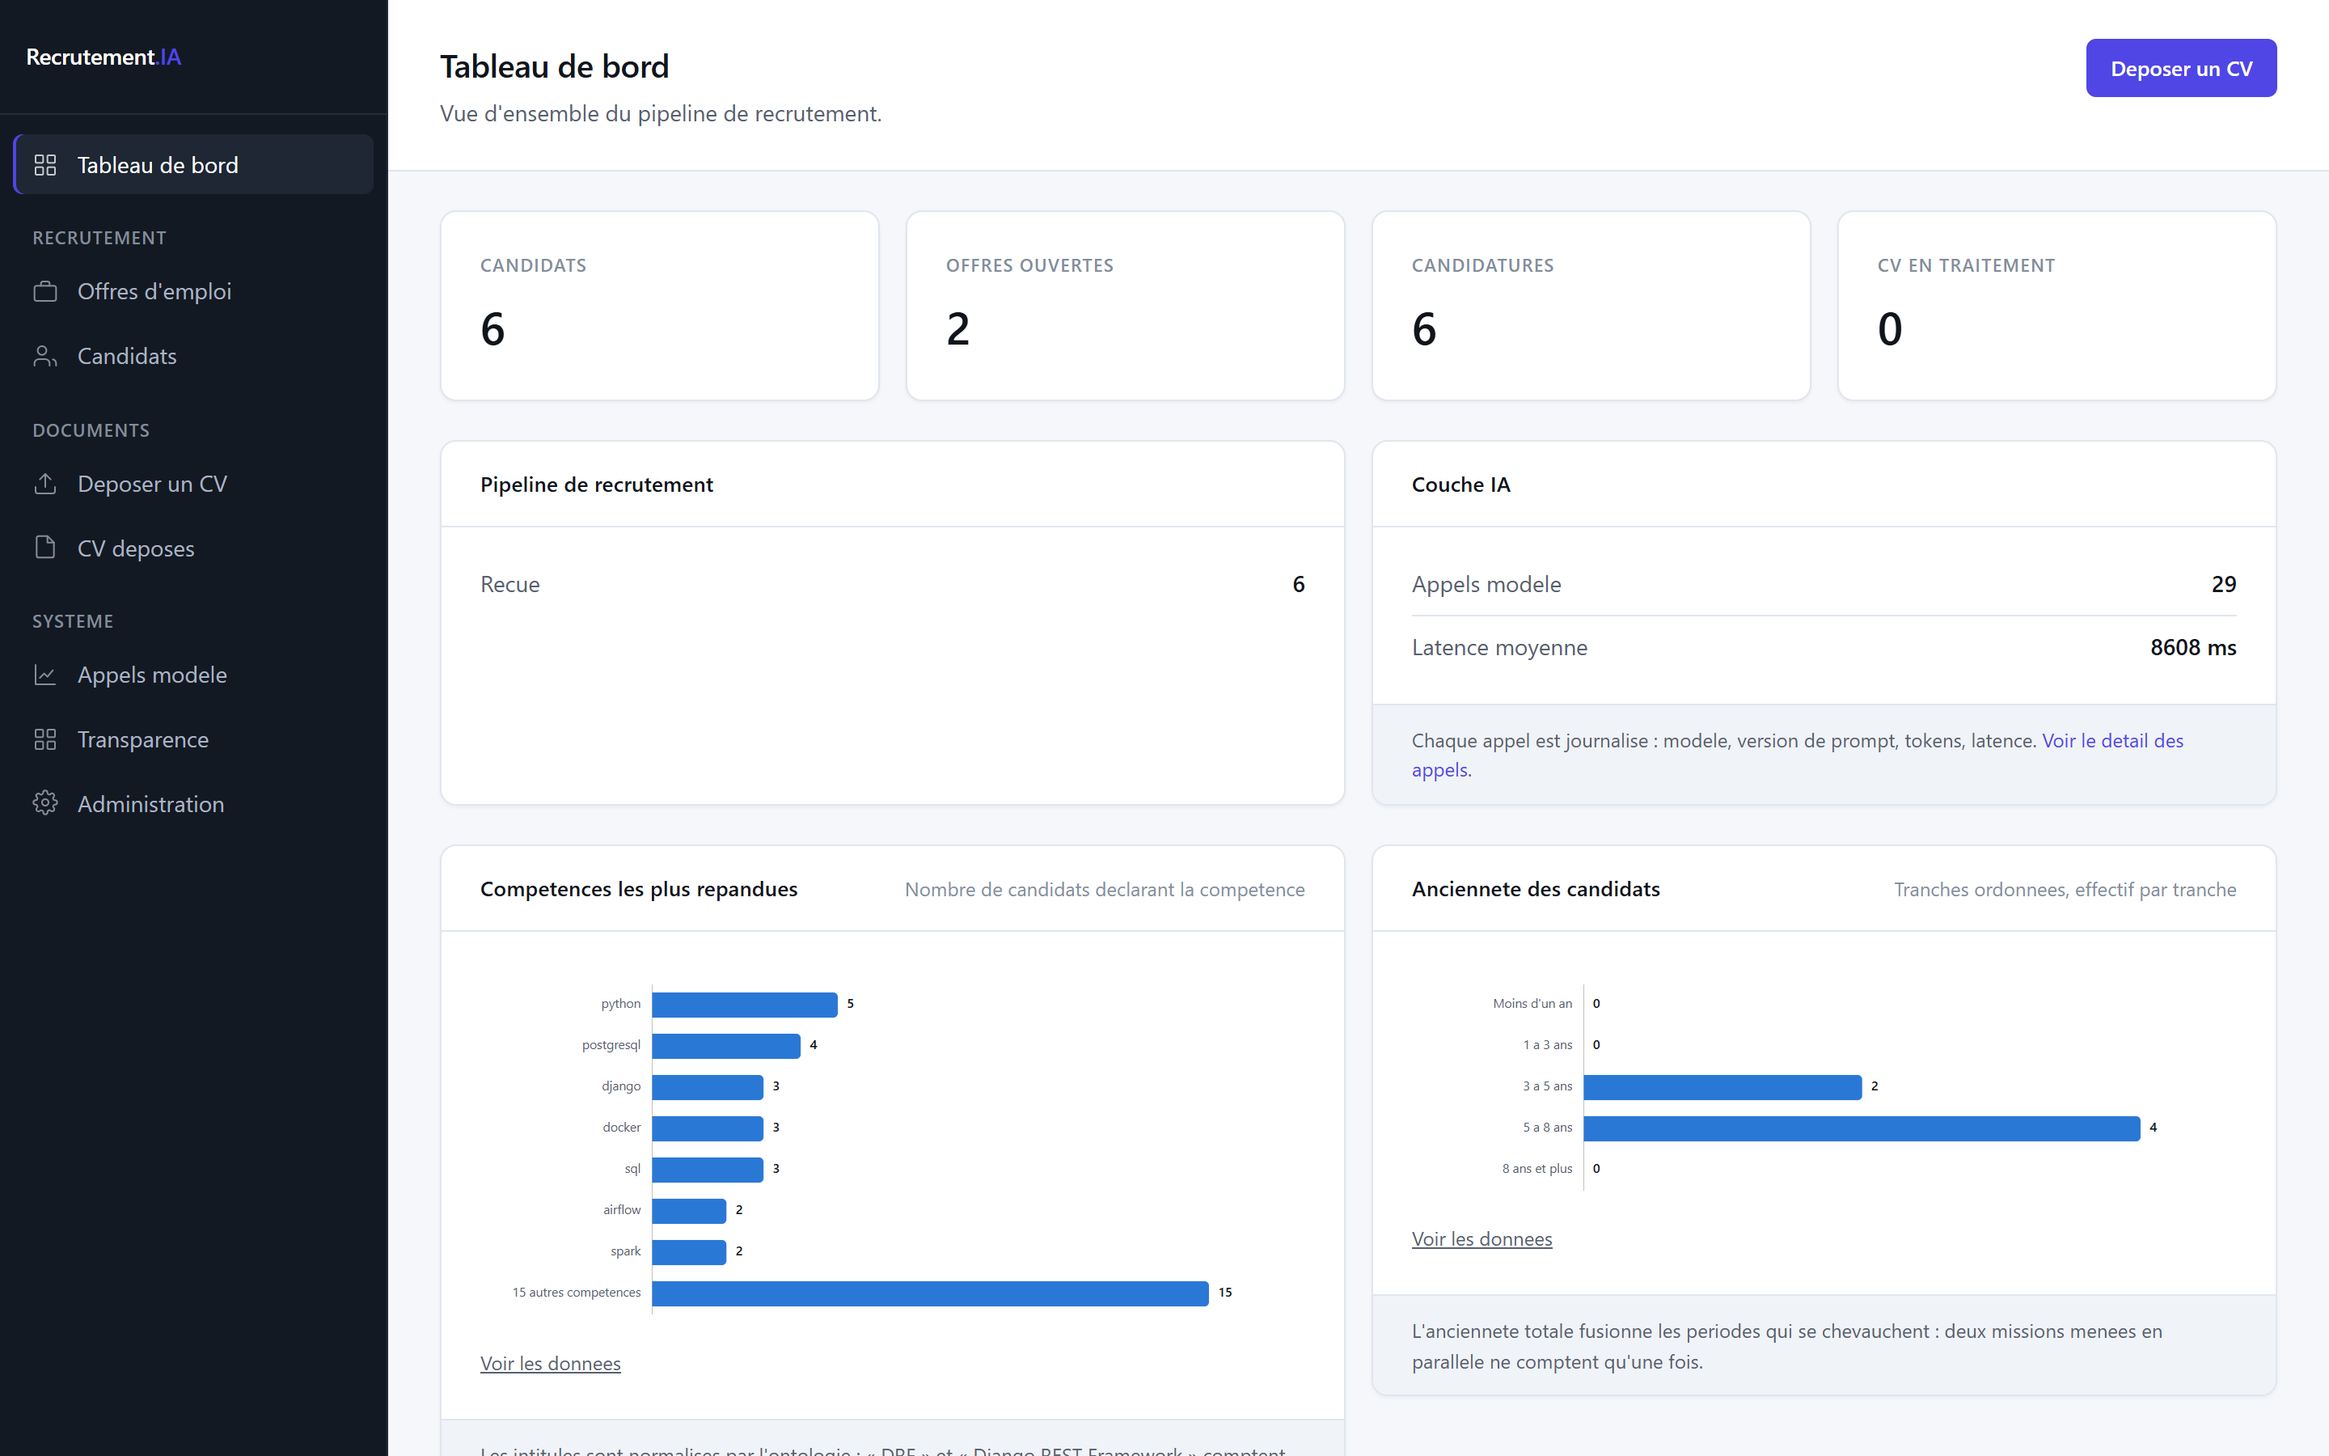
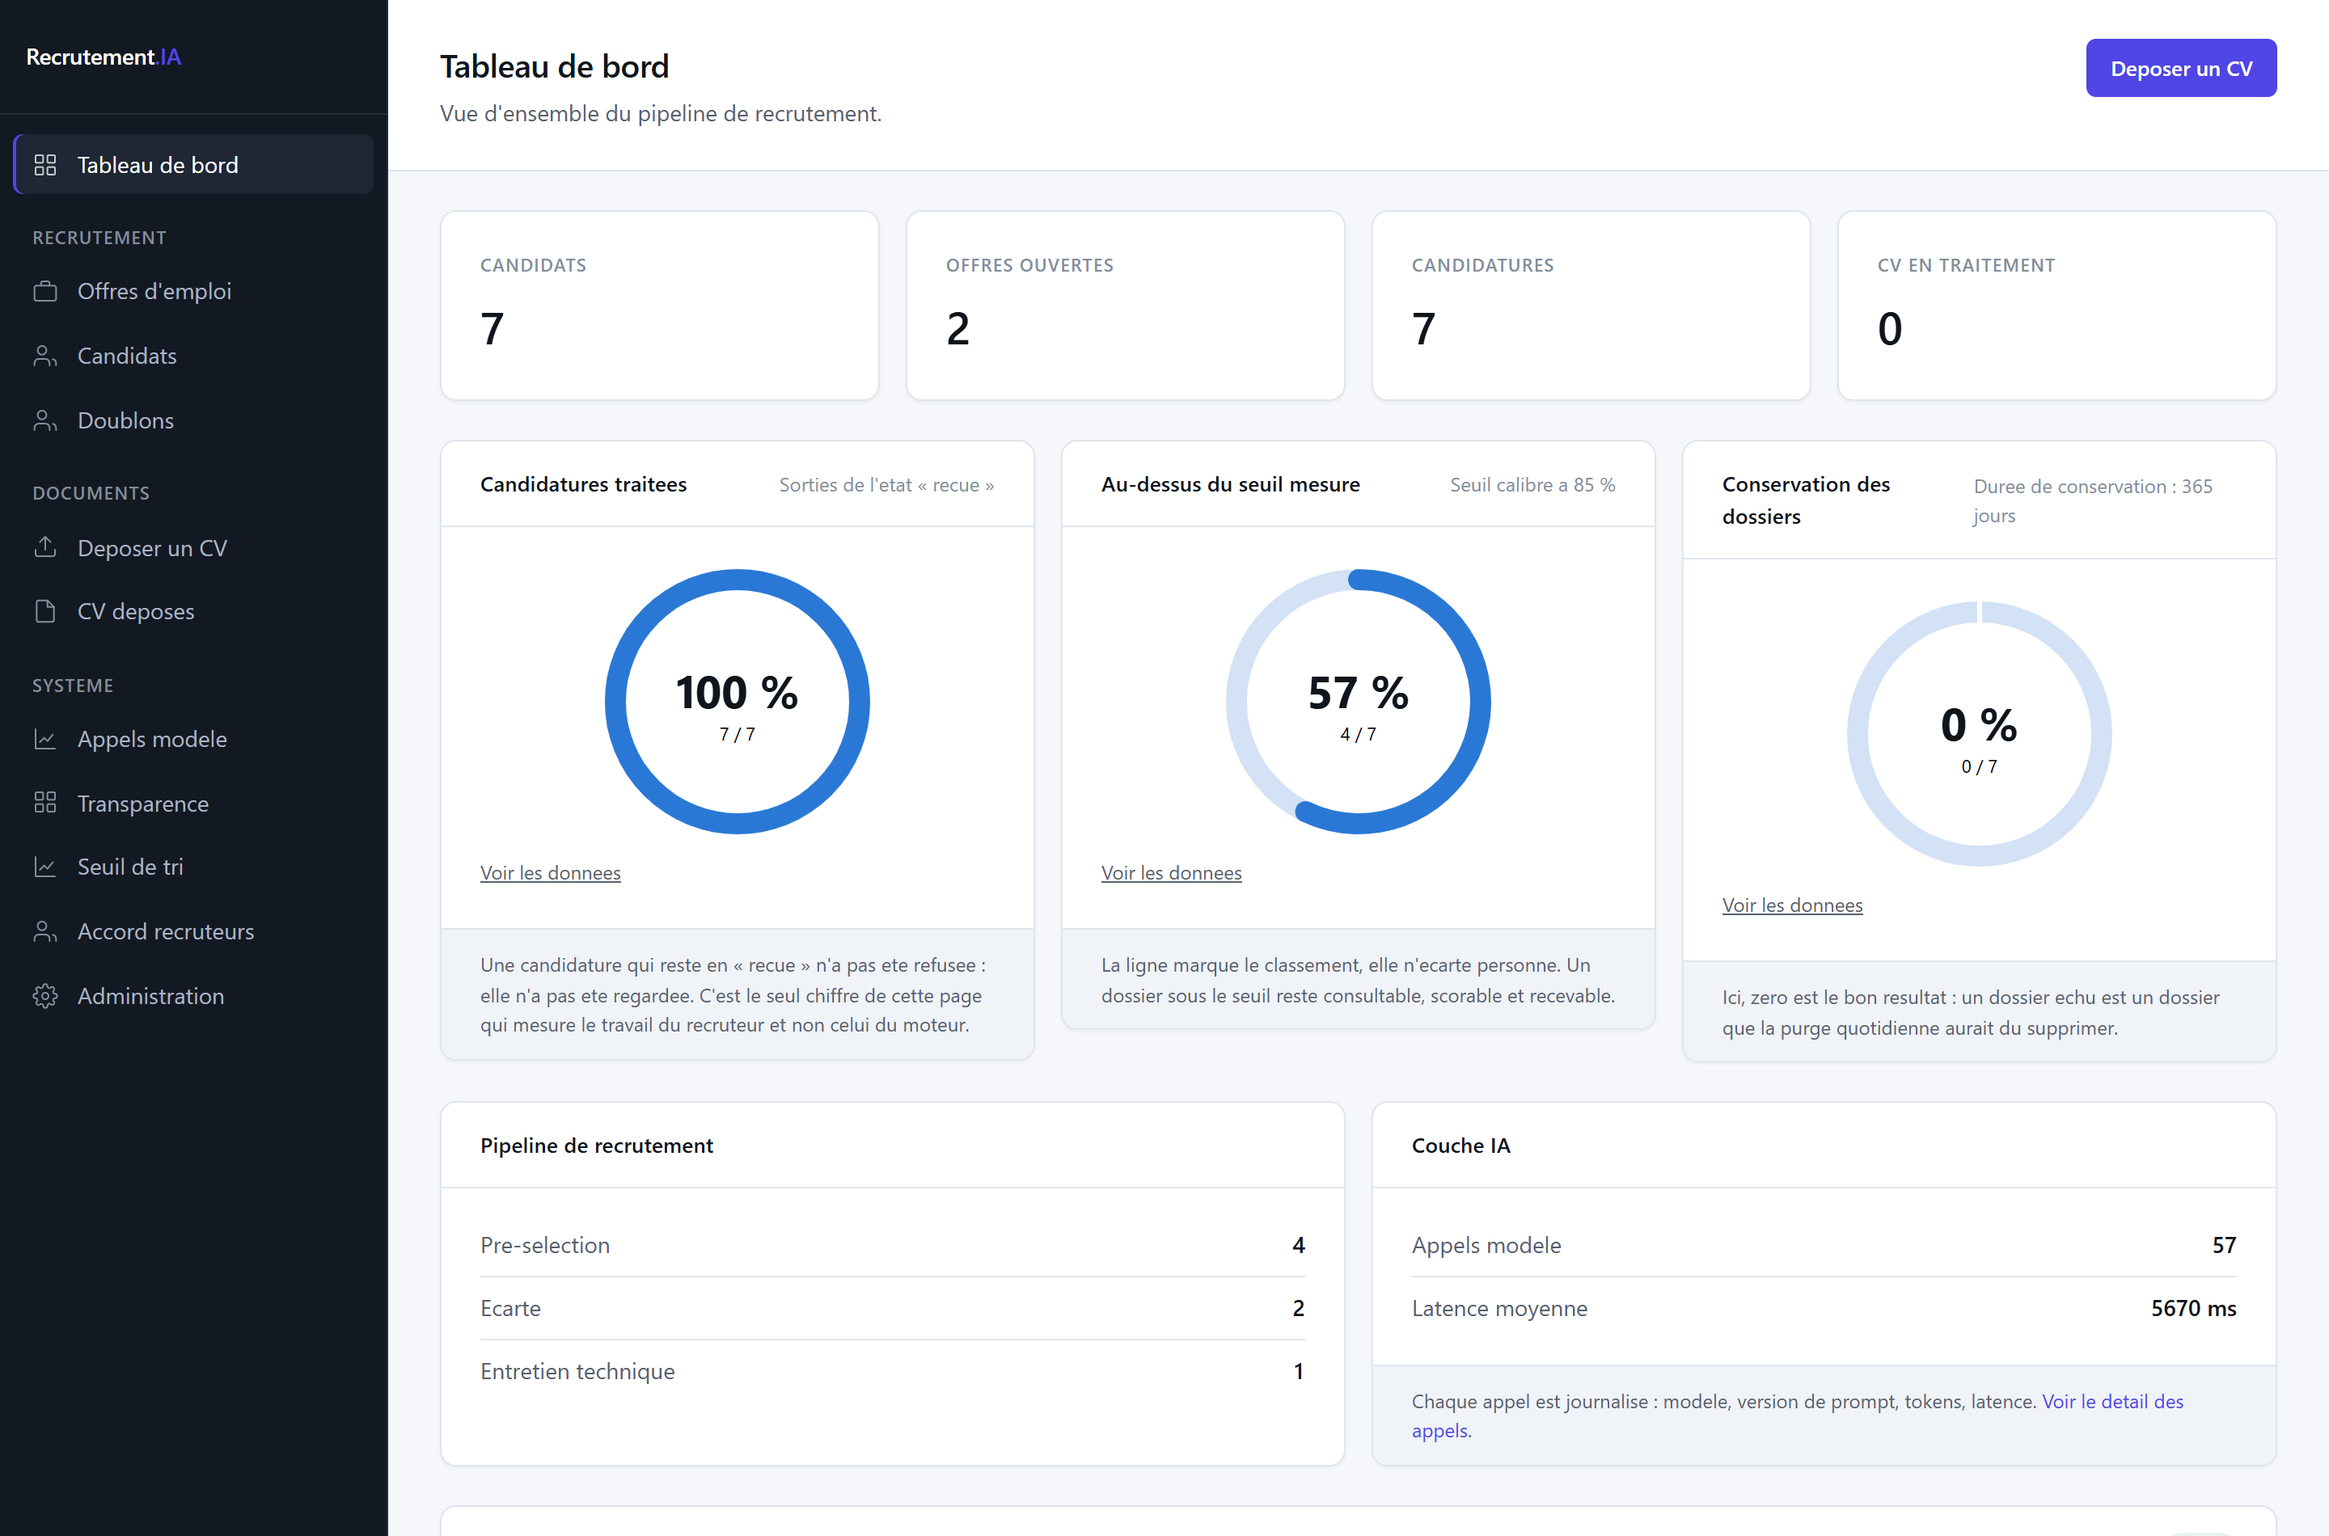
Recrutement.IA : ajouter les captures des dernieres fonctionnalites
Quatre ecrans nouveaux, tous pris sur l'application reelle :

- le simulateur de ponderation, sur le cas qui justifie son existence :
  baisser le poids des competences fait franchir le seuil legal des quatre
  cinquiemes sans toucher a celui de la localisation ;
- la redirection inter-offres, sur un profil data ayant postule au backend :
  75 % ici, 92 % sur l'offre data, signalee et non transferee ;
- l'accord entre recruteurs, ou l'accord brut de 0,67 correspond a un kappa
  de 0,25 -- le pourcentage aurait fait croire a un consensus ;
- un CV arabe genere pour mesurer l'extraction : 2 champs sur 8 sans
  normalisation, 7 avec.

La capture du tableau de bord est refaite : elle montrait encore la mise en
page d'avant les jauges, et etait donc devenue fausse.

Metriques remesurees le 31/07/2026 : 667 tests, 84 % de couverture.

diff --git a/recruitmentProject.js b/recruitmentProject.js
@@ -1,7 +1,7 @@
 // ─── DONNÉES DU PROJET : Recrutement.IA (bilingue FR / EN) ──────────────────
 // Passé à <ProjectCard data={...} /> dans App.jsx. Même schéma que l'objet
 // `project` par défaut de ProjectCard.jsx — on ne touche pas au composant.
-// Chiffres MESURÉS le 2026-07-30 : suite de tests exécutée (458 tests, 82 % de
+// Chiffres MESURÉS le 2026-07-31 : suite de tests exécutée (667 tests, 84 % de
 // couverture), harnais d'évaluation du classement (nDCG@5 0,997 sur 7 cas
 // annotés) et audit de biais par contrefactuels (ratio d'impact 0,809 → 1,000).
 // Captures dans public/screenshots/ (préfixe recruitment-).
@@ -16,7 +16,7 @@ export const recruitmentProject = {
       "Trier des CV avec un modèle de langage est facile ; obtenir un résultat qu'on puisse défendre l'est beaucoup moins — la note change d'une exécution à l'autre, et rien ne dit d'où elle vient. Ici le score est calculé par un moteur déterministe à partir de poids explicites, le modèle se contente de le commenter, et aucune donnée extraite d'un CV n'est retenue sans une citation retrouvée mot pour mot dans le document. La qualité du classement et l'effet des attributs identitaires sont mesurés sur des jeux annotés puis verrouillés en intégration continue : le tri de candidatures étant un système d'IA à haut risque au sens de l'AI Act, la supervision humaine n'est pas une intention mais un comportement — écarter un candidat demande un motif écrit, un compte non habilité se voit refuser l'action et le refus est journalisé, et chaque dossier porte une échéance de conservation qu'une purge quotidienne fait respecter.",
     stack: ["Python 3.11", "Django 5", "DRF", "Celery", "PyMuPDF", "python-docx", "pytest", "llama.cpp", "Qwen3.6-35B · Qwen3-VL", "SVG sans dépendance", "GitHub Actions"],
     metrics: [
-      { value: "458", label: "tests automatisés", detail: "82 % de couverture, exécutés en intégration continue" },
+      { value: "667", label: "tests automatisés", detail: "84 % de couverture, exécutés en intégration continue" },
       { value: "0,997", label: "nDCG@5 du classement", detail: "sur 7 cas annotés à la main, non-régression verrouillée" },
       { value: "1,000", label: "ratio d'impact après atténuation", detail: "0,809 avant — règle dite des quatre cinquièmes" },
     ],
@@ -91,6 +91,9 @@ Classement          Qwen3.6-35B
         { label: "Une personne comptée une fois", detail: "Un candidat qui repostule six mois plus tard créait deux dossiers, deux scores, et pouvait être écarté sur l'un sans qu'on sache que l'autre existait." },
         { label: "Chercher ce qu'aucun filtre n'exprime", detail: "« Qui a travaillé sur des systèmes de paiement ? » n'est ni une compétence, ni une langue, ni un seuil. BM25 sur le profil extrait répond, sans appel modèle : rappel@5 de 0,959 sur un jeu annoté, soit exactement le maximum atteignable." },
         { label: "Un rapport transmissible", detail: "Qualité du classement, biais mesurés, seuil et sa marge dans un PDF daté et versionné, généré sans dépendance supplémentaire — PyMuPDF était déjà là pour lire les CV. L'export est journalisé : un document qui sort du système est une donnée qui circule." },
+        { label: "Personne n'est écarté sans qu'on ait regardé ailleurs", detail: "Un candidat sous le seuil sur une offre mais au-dessus sur une autre est signalé au lieu de disparaître. C'est un signalement, pas un transfert : postuler ailleurs appartient au candidat. La page distingue « aucune autre offre ne conviendrait » de « on n'a pas regardé »." },
+        { label: "Un CV arabe devient lisible", detail: "Un PDF arabe stocke des formes de présentation, pas les lettres de base : « سارة » écrit dans le CV ressort en « ﺱﺍﺭﺓ ». Sans normalisation, 2 champs sur 8 sont retrouvés ; avec, 7 sur 8." },
+        { label: "Le coût d'une pondération est visible avant de l'appliquer", detail: "Baisser le poids des compétences de 0,45 à 0,20 fait tomber le ratio d'impact de 0,809 à 0,714 — sous le seuil légal — sans toucher au poids de la localisation. Aucun recruteur ne devinerait cela en déplaçant un curseur." },
       ],
       note:
         "Chiffres relevés sur les jeux de test du dépôt, reproductibles par les commandes du README. Le gain de temps de présélection en conditions réelles n'a pas été mesuré : il n'est donc pas revendiqué.",
@@ -98,7 +101,11 @@ Classement          Qwen3.6-35B
 
     screenshots: [
       { file: "recruitment-ranking.png", caption: "Classement d'une offre, avec le seuil de coupe mesuré — la ligne marque, elle n'écarte pas" },
+      { file: "recruitment-weights.png", caption: "Baisser le poids des compétences fait franchir le seuil légal — sans toucher à la localisation" },
       { file: "recruitment-threshold.png", caption: "Où couper : chaque seuil, ce qu'il retient et surtout ce qu'il écarte à tort" },
+      { file: "recruitment-redirect.png", caption: "Sous le seuil ici, au-dessus ailleurs : l'offre est signalée, jamais la candidature transférée" },
+      { file: "recruitment-agreement.png", caption: "Accord brut 0,67, kappa 0,25 : le pourcentage aurait fait croire à un consensus" },
+      { file: "recruitment-arabic.png", caption: "CV arabe généré pour mesurer l'extraction : 2 champs sur 8 sans normalisation, 7 avec" },
       { file: "recruitment-counterfactual.png", caption: "Ce qui manque pour atteindre le seuil, mesuré en rejouant le moteur" },
       { file: "recruitment-duplicates.png", caption: "Deux dossiers pour la même personne — proposés au rapprochement, jamais fusionnés d'office" },
       { file: "recruitment-search.png", caption: "Recherche BM25 dans le texte des profils : aucun appel modèle, résultat reproductible" },
@@ -114,7 +121,7 @@ Classement          Qwen3.6-35B
       { file: "recruitment-decision.png", caption: "Écarter un candidat exige un motif écrit ; le journal conserve toutes les décisions" },
       { file: "recruitment-roles.png", caption: "Un compte en lecture seule est refusé sur toute action, et le refus est journalisé" },
       { file: "recruitment-retention.png", caption: "Conservation RGPD : échéance par dossier, purge quotidienne en cascade" },
-      { file: "recruitment-dashboard.png", caption: "Tableau de bord : compétences, ancienneté, distribution des scores" },
+      { file: "recruitment-dashboard.png", caption: "Tableau de bord : trois jauges en tête, puis compétences, ancienneté et distribution des scores" },
     ],
     repoUrl: "https://github.com/baDrsh531/ai-recruitment-assistant",
     demo: { status: "pending", label: "Démo : code prêt, déploiement en attente" },
@@ -129,7 +136,7 @@ Classement          Qwen3.6-35B
       "Ranking CVs with a language model is easy; getting a result you can defend is much harder — the score shifts between runs, and nothing says where it came from. Here the score is computed by a deterministic engine from explicit weights, the model only comments on it, and no data extracted from a CV is kept without a quote found verbatim in the document. Ranking quality and the effect of identity attributes are measured on annotated datasets and locked in continuous integration: since CV screening is a high-risk AI system under the EU AI Act, human oversight is a behaviour rather than an intention — rejecting a candidate requires a written reason, an account without the right is refused the action and the refusal is logged, and every file carries a retention deadline that a daily purge enforces.",
     stack: ["Python 3.11", "Django 5", "DRF", "Celery", "PyMuPDF", "python-docx", "pytest", "llama.cpp", "Qwen3.6-35B · Qwen3-VL", "Dependency-free SVG", "GitHub Actions"],
     metrics: [
-      { value: "458", label: "automated tests", detail: "82% coverage, run in continuous integration" },
+      { value: "667", label: "automated tests", detail: "84% coverage, run in continuous integration" },
       { value: "0.997", label: "ranking nDCG@5", detail: "across 7 hand-annotated cases, regression-locked" },
       { value: "1.000", label: "impact ratio after mitigation", detail: "0.809 before — the four-fifths rule" },
     ],
@@ -204,6 +211,9 @@ Shortlist           Qwen3.6-35B
         { label: "One person counted once", detail: "A candidate re-applying six months later created two records, two scores, and could be dropped on one without anyone knowing the other existed." },
         { label: "Searching what no filter can express", detail: "« Who has worked on payment systems? » is neither a skill, nor a language, nor a threshold. BM25 over the extracted profile answers it with no model call: recall@5 of 0.959 on an annotated set — exactly the reachable maximum." },
         { label: "A report you can hand over", detail: "Ranking quality, measured bias, threshold and its margin in a dated, versioned PDF, generated with no extra dependency — PyMuPDF was already there to read CVs. The export is logged: a document leaving the system is data in circulation." },
+        { label: "Nobody is dropped before looking elsewhere", detail: "A candidate below the bar on one role but above it on another is flagged instead of vanishing. It is a flag, not a transfer: applying elsewhere belongs to the candidate. The page distinguishes « no other role would fit » from « nobody looked »." },
+        { label: "An Arabic CV becomes readable", detail: "An Arabic PDF stores presentation forms, not base letters: « سارة » written in the CV comes back as « ﺱﺍﺭﺓ ». Without normalisation, 2 fields of 8 are recovered; with it, 7 of 8." },
+        { label: "The price of a weighting is visible before applying it", detail: "Lowering the weight of skills from 0.45 to 0.20 drops the impact ratio from 0.809 to 0.714 — below the legal threshold — without touching the weight of location. No recruiter would guess that by moving a slider." },
       ],
       note:
         "Figures taken from the repository's test datasets, reproducible with the README commands. Real-world shortlisting time savings were not measured, so they are not claimed.",
@@ -211,7 +221,11 @@ Shortlist           Qwen3.6-35B
 
     screenshots: [
       { file: "recruitment-ranking.png", caption: "Shortlist for a role, with the measured cut-off — the line marks, it does not reject" },
+      { file: "recruitment-weights.png", caption: "Lowering the weight of skills crosses the legal threshold — without touching location" },
       { file: "recruitment-threshold.png", caption: "Where to cut: every threshold, what it keeps and above all what it wrongly drops" },
+      { file: "recruitment-redirect.png", caption: "Below the bar here, above it elsewhere: the role is flagged, the application never moved" },
+      { file: "recruitment-agreement.png", caption: "Raw agreement 0.67, kappa 0.25: the percentage would have suggested a consensus" },
+      { file: "recruitment-arabic.png", caption: "Arabic CV generated to measure extraction: 2 fields of 8 without normalisation, 7 with" },
       { file: "recruitment-counterfactual.png", caption: "What is missing to reach the threshold, measured by replaying the engine" },
       { file: "recruitment-duplicates.png", caption: "Two records for one person — proposed for merging, never merged automatically" },
       { file: "recruitment-search.png", caption: "BM25 search across profile text: no model call, reproducible result" },
@@ -227,7 +241,7 @@ Shortlist           Qwen3.6-35B
       { file: "recruitment-decision.png", caption: "Rejecting a candidate requires a written reason; the log keeps every decision" },
       { file: "recruitment-roles.png", caption: "A read-only account is refused any action, and the refusal is logged" },
       { file: "recruitment-retention.png", caption: "GDPR retention: a deadline per file, daily cascading purge" },
-      { file: "recruitment-dashboard.png", caption: "Dashboard: skills, seniority, score distribution" },
+      { file: "recruitment-dashboard.png", caption: "Dashboard: three gauges up top, then skills, seniority and score distribution" },
     ],
     repoUrl: "https://github.com/baDrsh531/ai-recruitment-assistant",
     demo: { status: "pending", label: "Demo: code ready, deployment pending" },
